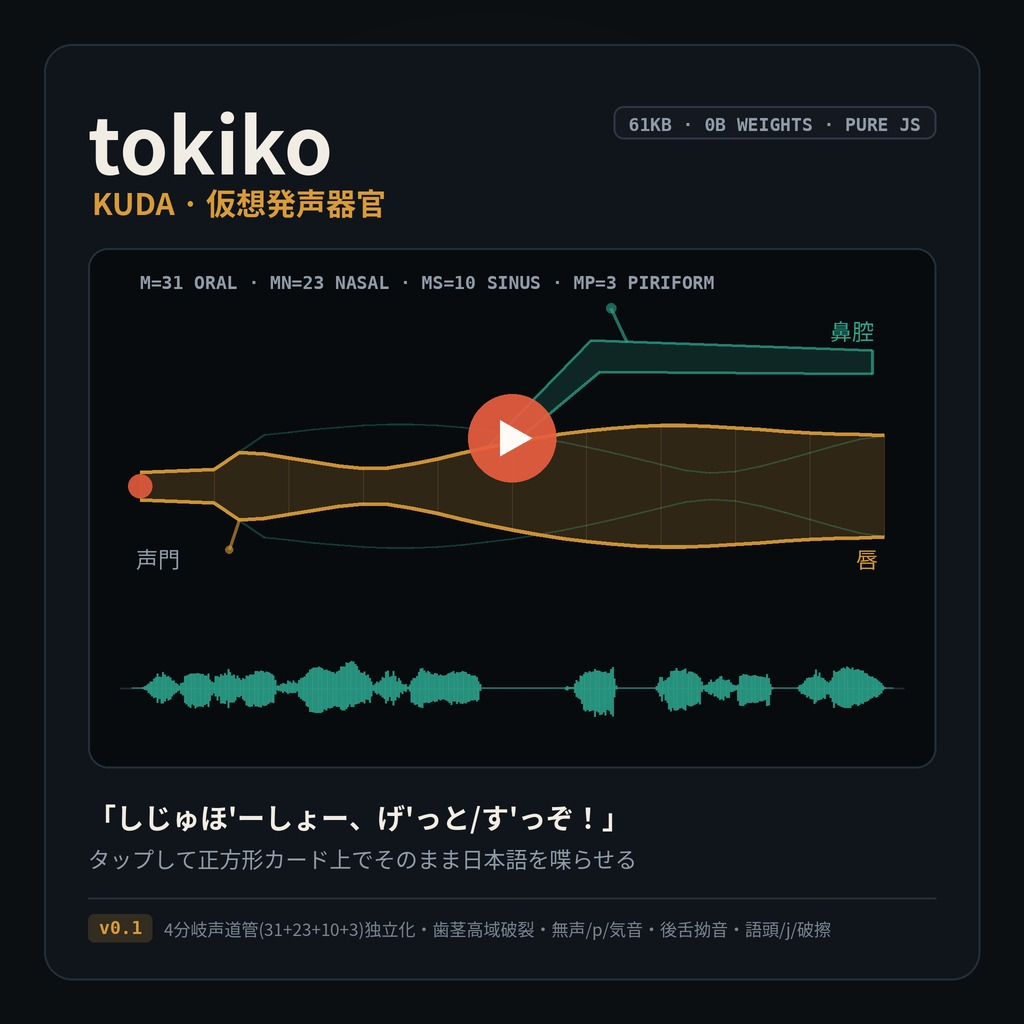
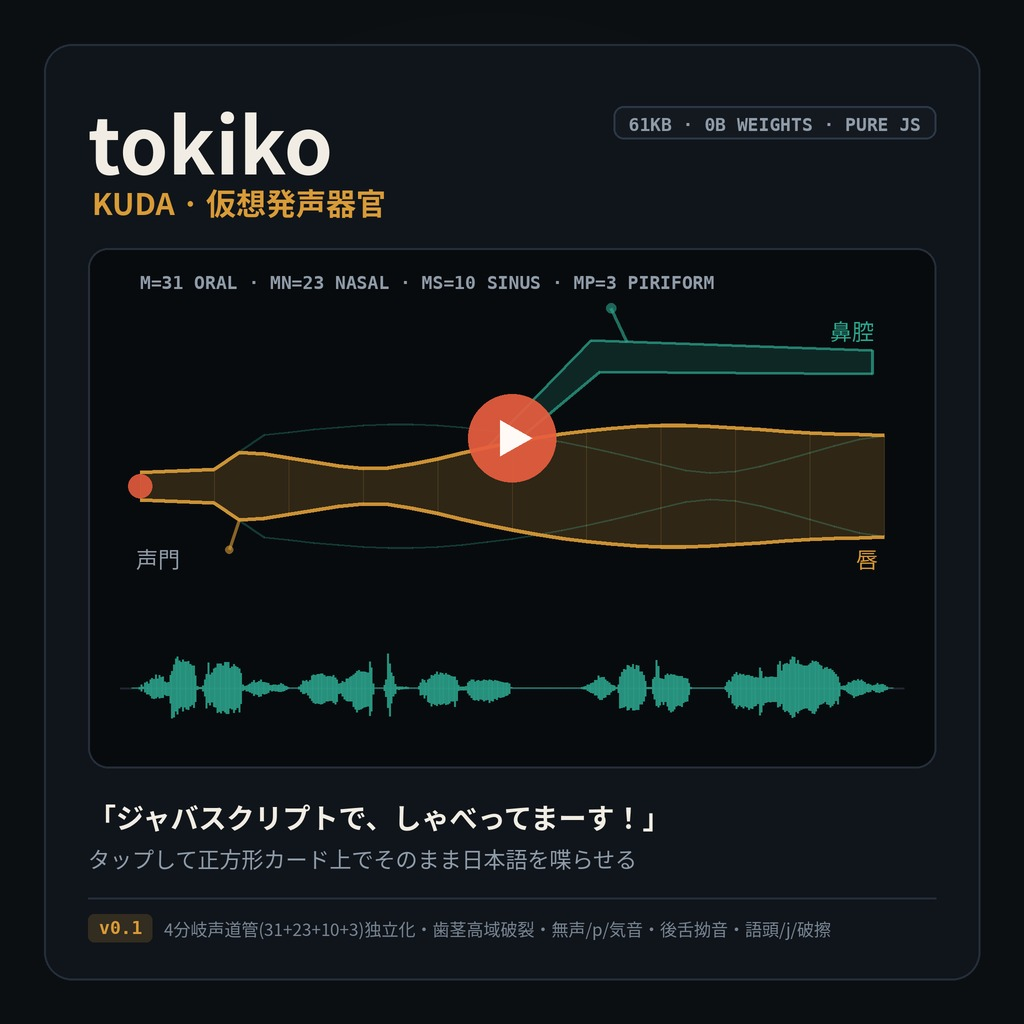
demo: set default X card phrase to ジャバスクリプトで、しゃべってまーす！

Changed region(s): [[0.125, 0.625, 0.5, 0.7188], [0.5625, 0.625, 0.875, 0.7188], [0.0938, 0.7812, 0.625, 0.8125]]

diff --git a/player.html b/player.html
@@ -335,14 +335,14 @@
   </div>
 
   <div class="input-row">
-    <input id="kanaInput" class="kana-input" type="text" value="しじゅほ'ーしょー、げ'っと/す'っぞ！" spellcheck="false" aria-label="読み上げテキスト（ひらがな・カタカナ）">
+    <input id="kanaInput" class="kana-input" type="text" value="ジャバスクリプトで、しゃべってまーす！" spellcheck="false" aria-label="読み上げテキスト（ひらがな・カタカナ）">
     <button id="playBtn" class="play-btn" type="button">▶ しゃべる</button>
   </div>
 
   <div class="samples">
-    <button class="sample-btn active" type="button" data-text="しじゅほ'ーしょー、げ'っと/す'っぞ！">紫綬褒章！</button>
+    <button class="sample-btn active" type="button" data-text="ジャバスクリプトで、しゃべってまーす！">JSで喋る!</button>
     <button class="sample-btn" type="button" data-text="だいじょうぶ、きっと、うまく、いくよ">大丈夫</button>
-    <button class="sample-btn" type="button" data-text="わたし、にほんご、ちょっとしゃべれます">にほんご</button>
+    <button class="sample-btn" type="button" data-text="ありがとう、すごく、うれしかったよ">ありがとう</button>
     <button class="sample-btn" type="button" data-text="こんばんは、おつかれさま、ゆっくり、やすんでね">お疲れ様</button>
   </div>
 
